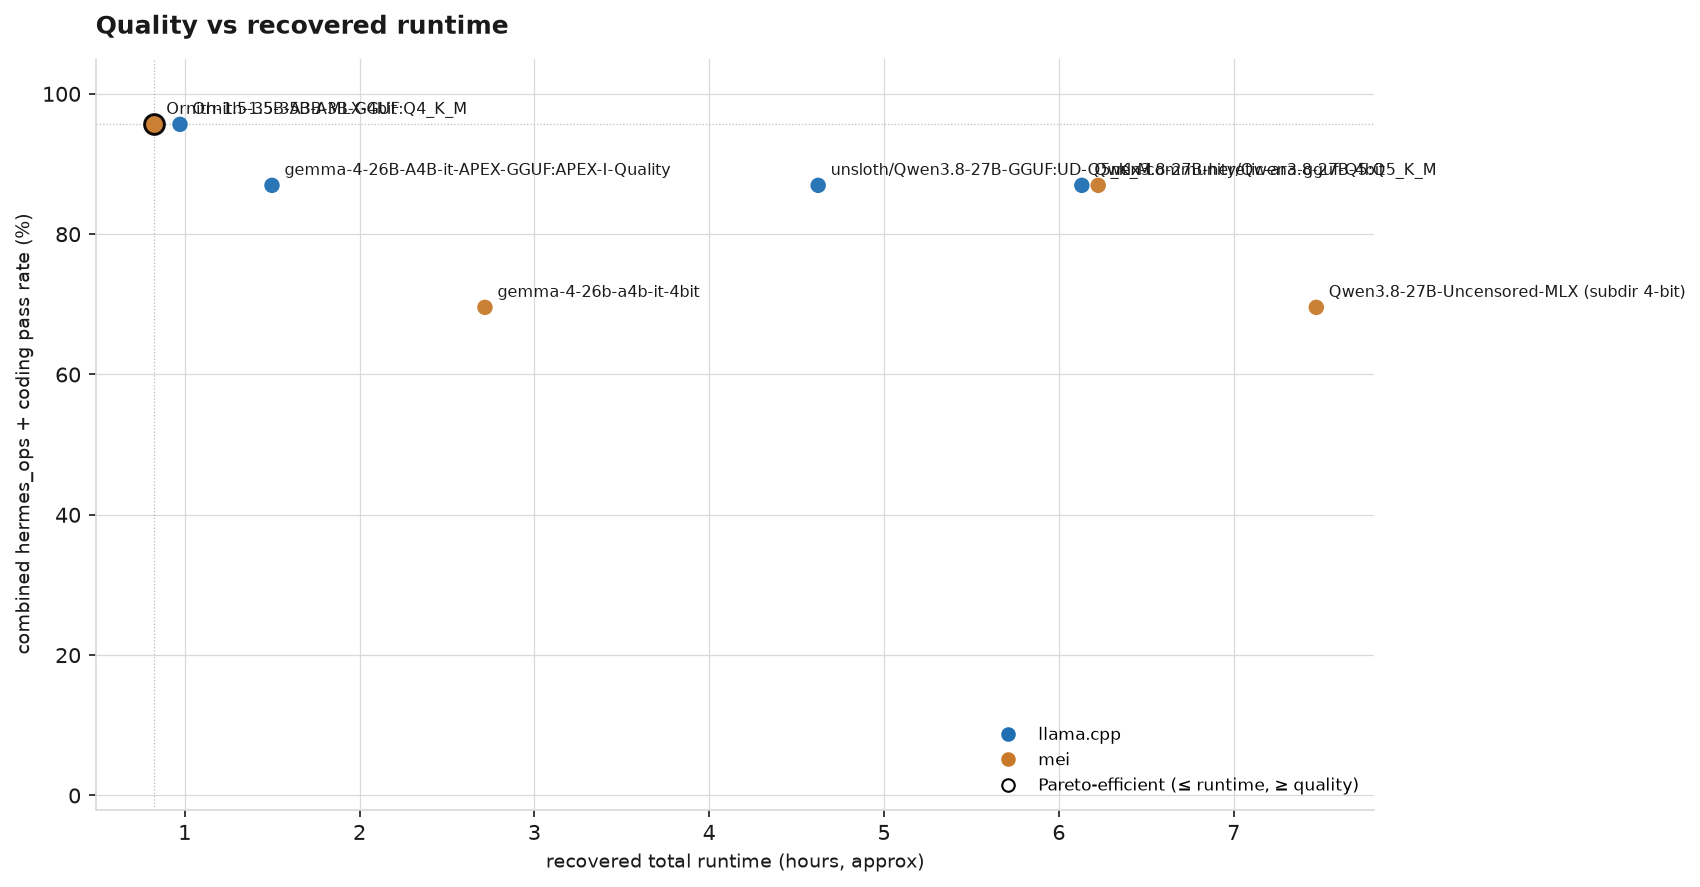
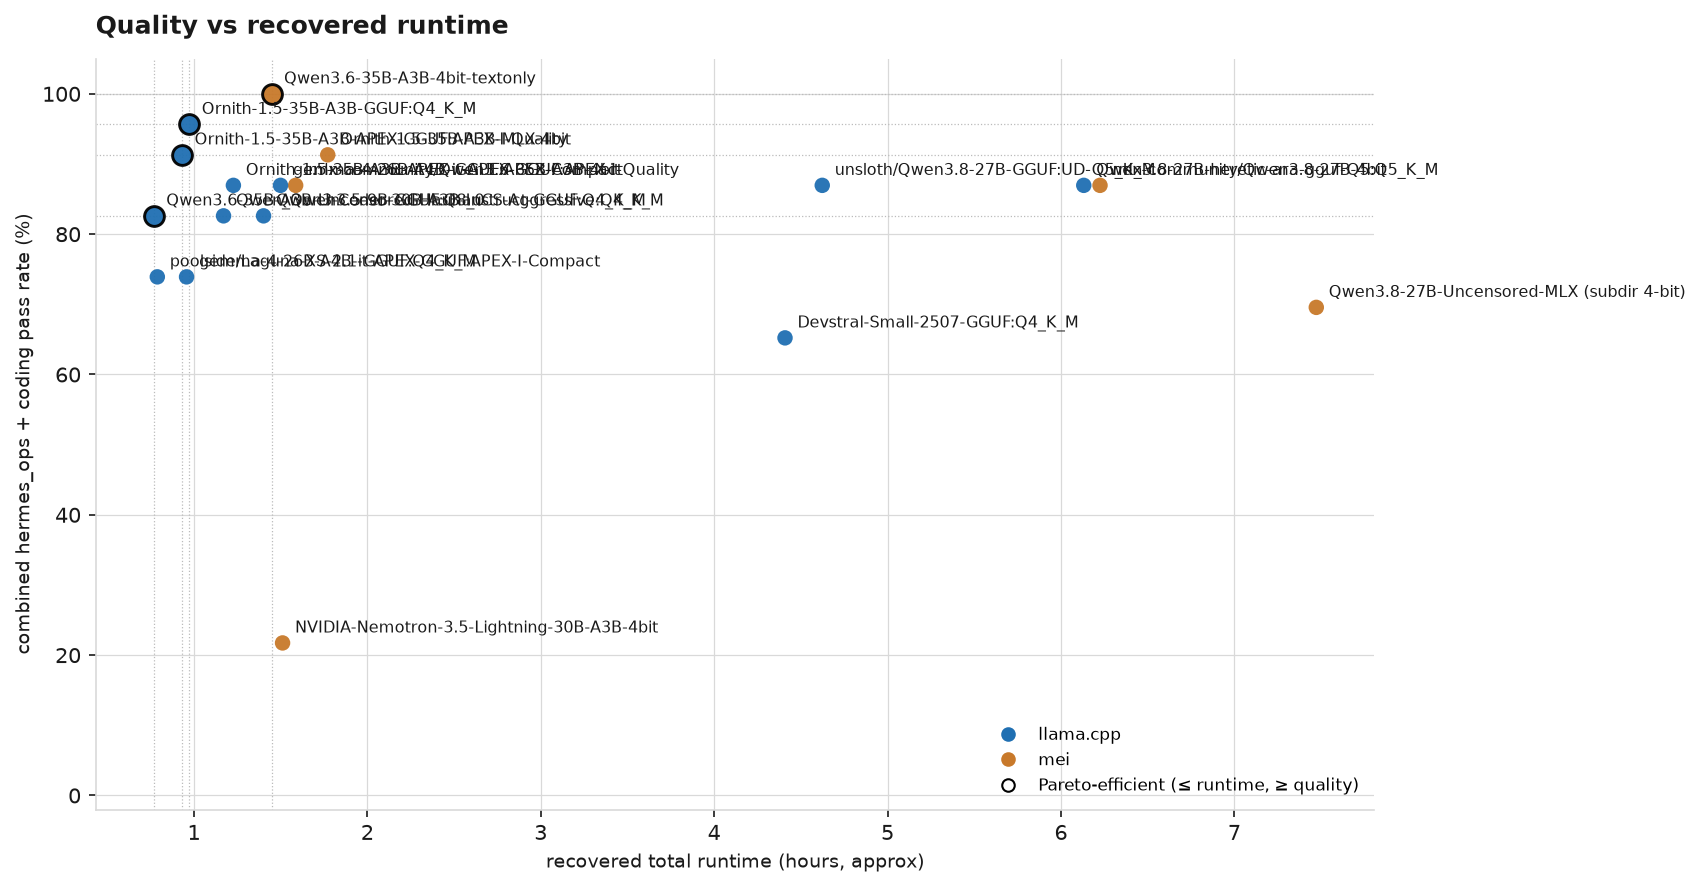
results: only live charts on the summary page
Reviewed all seven charts. Five were dated 2026-09-06 while the ranking beneath
them had changed twice, because the chart step had been failing silently on
every run (fixed in 210be56) and build_summary_charts.py is a hand-run tool.

Kept on SUMMARY.md, both regenerated today:
  score_chart.png    the ranking headline
  suite_heatmap.png  where each model actually fails — the clean sweep and
                     Nemotron's collapse are both readable at a glance

Moved to HISTORY.md with the comparison they illustrate:
  engine_delta.png         CANNOT be regenerated; build_summary_charts.py now
                           skips it because the paired families it compared are
                           no longer both eligible
  summary_score_chart.png  orphaned, no tool regenerates it, superseded by
                           score_chart.png
  failure_taxonomy.png     regenerates but is three bars aggregating every
                           failure row across all models and all dates — no
                           model, no suite, no date, nothing actionable
  quality_vs_runtime.png   regenerate and carry real signal (the dense-model
  runtime_breakdown.png    time penalty is stark: Qwen 3.8 at 6-7.5 h against
                           Ornith at 1-1.8 h) but 18-row charts are reference
                           material, not a headline

Summary now states when its charts were generated and by which command, so
staleness is visible rather than silent.
[…]

diff --git a/results/HISTORY.md b/results/HISTORY.md
@@ -8,6 +8,28 @@ in their original words.
 
 ---
 
+## Archived charts
+
+These illustrate the 2026-09-06 "Final eight" comparison below and are kept with
+it. They are NOT on the summary page: two cannot be regenerated from current
+data at all, and the rest describe a model selection that has since changed.
+
+- `engine_delta.png` — Mei vs llama.cpp deltas. **Cannot be regenerated**:
+  `build_summary_charts.py` now skips it ("no family had both a pass-rate and
+  runtime delta"), because the paired families it compared are no longer both
+  in the eligible set.
+- `summary_score_chart.png` — the curated "selected eight" composite. Orphaned:
+  no current tool regenerates it, and `score_chart.png` supersedes it.
+- `failure_taxonomy.png` — three bars totalling every failure row in the log.
+  Regenerates, but aggregates across all models and all dates, so it says
+  nothing actionable about any single run.
+- `quality_vs_runtime.png`, `runtime_breakdown.png` — both regenerate and both
+  carry real signal (the dense-model time penalty is stark in the latter:
+  Qwen 3.8 variants at 6-7.5 h against Ornith at 1-1.8 h). Kept here rather
+  than on the summary because 18-row charts are reference material, not a
+  headline.
+
+
 ## 2026-09-07 evening: the three targets re-run on the 0.3.0 build + C1 — no regression, decode faster, quality flat
 
 All three active targets were re-run in one chain (`/tmp/bench_030.sh`, runner

diff --git a/results/SUMMARY.md b/results/SUMMARY.md
@@ -88,20 +88,17 @@ not optimization targets.
 
 ## Charts
 
-The following are from the 2026-09-06 "Final eight" post-fix comparison
-(archived in full in `HISTORY.md`):
+Regenerated 2026-09-09 from the current `log.jsonl` by
+`uv run --locked python runner/build_summary_charts.py` and
+`runner/plot_leaderboard.py`. Only charts that regenerate from live data appear
+here; see [`HISTORY.md`](HISTORY.md) for ones tied to superseded comparisons.
 
-![Selected-eight composite score](summary_score_chart.png)
+![Pass rate by suite](suite_heatmap.png)
 
-![Quality vs recovered runtime](quality_vs_runtime.png)
-
-![Mei vs llama.cpp deltas](engine_delta.png)
-
-![Suite pass-rate heatmap](suite_heatmap.png)
-
-![Recovered runtime breakdown](runtime_breakdown.png)
-
-![Failure taxonomy](failure_taxonomy.png)
+*Where each model actually fails. `kiem_mini` is the hardest suite across the
+whole field; Qwen 3.6 text-only is the only 100% row; Nemotron's collapse
+(12% hermes_ops, 0% coding) is visible at a glance. The `sanity` column is
+100% for every model and carries no information — it is a gate, not a signal.*
 
 ## Where the detail lives
 
